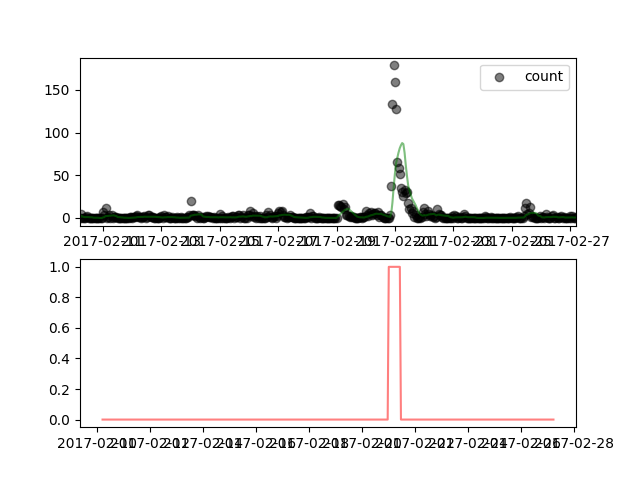
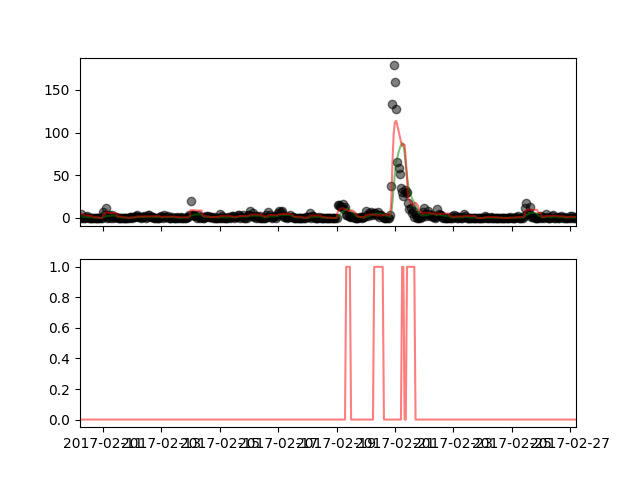
bugfix timeseries

diff --git a/timeseries/__main__.py b/timeseries/__main__.py
@@ -16,6 +16,7 @@ __url__ = "https://github.com/urbanriskmap/timeseries-analysis"
 import pandas as pd
 import numpy as np
 import matplotlib.pyplot as plt
+import matplotlib as mpl
 from matplotlib.animation import FuncAnimation
 
 import datetime
@@ -148,7 +149,7 @@ def get_data_chennai(start_date, end_date, interval="'1 hour'"):
     ''', params={"start_date":start_date, "end_date":end_date, "interval":interval}, con=engine, index_col="date", parse_dates=["date"])
     return num_reports_with_zeros
 
-def test_harness(alg, known_flooding, flood_reports, filename="./graphs/temp.png", animate=False):
+def test_harness(alg, known_flooding, flood_reports, filename="./graphs/temp.png", animate=False, show=True):
     """ Plays each flood report in turn to the streaming algorithm, creating an animation
     Args: 
         alg: the streaming algorithm class. Has a input_report() function that takes in a report
@@ -181,26 +182,37 @@ def test_harness(alg, known_flooding, flood_reports, filename="./graphs/temp.png
     fig.suptitle('', fontsize=16)
     ax.set_xlim(t.index.values[0], t.index.values[-1])
     #ax.plot(t.index.values, t['median'], color='b', alpha=0.5, label="median")
+    fig.canvas.draw()
+    xlabels = [item.get_text()[5:] for item in ax1.get_xticklabels()]
+    ax1.set_xticklabels(xlabels)
+
 
     if (animate):
         def update(frame):
-            ax.set_xlabel(t.index.values[frame])
+            date = t.index.values[frame]
+            ts = pd.to_datetime(str(date)) 
+            d = ts.strftime('%Y.%m.%d - %H:00')
+            #ax.set_xlabel(t.index.values[frame])
+            ax.set_xlabel(d)
             ax.plot(t.index.values[0:frame], t[0:frame]['mean'], color='g', alpha=0.5, label="mean")
             #ax.plot(t.index.values[0:frame], t[0:frame]['median'], color='b', alpha=0.5, label="median")
             #ax.plot(t.index.values[0:frame], t[0:frame]['std'], color='r', alpha=0.5, label="std")
-            ax.scatter(flood_reports.index.values[0:frame], flood_reports.iloc[0:frame]['count'], color='k', alpha=0.5)
+            ax.scatter(flood_reports.index.values[0:frame], flood_reports.iloc[0:frame]['count'], color='k', alpha=0.5, s=5)
             ax1.plot(t.index.values[0:frame], t[0:frame]['signal'], color='r', alpha=0.5, label="signal")
+
             return ax
 
         anim = FuncAnimation(fig, update, frames=np.arange(0,flood_reports.shape[0]), interval=1)
         ax.legend()
         if (filename and filename[-3:] == "gif"):
-            anim.save(filename, writer='imagemagick', fps=60)
+            print(mpl.rcParams['savefig.dpi'])
+            anim.save(filename, writer='imagemagick', fps=60, bitrate=4118620, dpi=200)
         #anim.save('./graphs/bin_by_hour_jbd_feb_cusum_mu1-44.gif', writer='imagemagick', fps=60)
         #anim.save('./graphs/bin_by_min_jbd_feb_cusum_mu1-44.gif', writer='imagemagick', fps=60)
     else: 
         ax.scatter(flood_reports.index.values, flood_reports['count'], color='k', alpha=0.5)
         ax.plot(t.index.values, t['mean'], color='g', alpha=0.5, label="mean")
+        ax.plot(t.index.values, t['std'], color='r', alpha=0.5, label="mean")
         ax1.plot(t.index.values, t['signal'], color='r', alpha=0.5, label="signal")
         if (filename):
             plt.savefig(filename)
@@ -208,7 +220,8 @@ def test_harness(alg, known_flooding, flood_reports, filename="./graphs/temp.png
 
 
     ax.legend()
-    plt.show()
+    if ( show):
+        plt.show()
     return
 
 def test_harness_cusum(alg, known_flooding, flood_reports, filename="./graphs/temp.png", animate=False):
@@ -421,6 +434,9 @@ def cusum_bin_by_hour():
     test_harness_cusum(alg, known, reports, filename="./graphs/bin_by_hour_jbd_feb_cusum.png", animate=False)
 
 def moving_average_bin_by_hour():
+    global engine
+    engine = create_engine("postgresql://postgres:postgres@localhost:5432/petabencana")
+
     start_known_flood = "'2017-02-20 00:00:35.630000-05:00'"
     end = "'2017-02-23 00:00:35.630000-05:00'"
     interval = "'1 hour'"
@@ -433,8 +449,8 @@ def moving_average_bin_by_hour():
     reports = get_data( start_all_reports, end_all_reports) 
 
     alg = spf.streaming_peak_finder(10, 40)
-    #test_harness(alg, known, reports, filename="./graphs/moving_avg_bin_by_hour_feb_jbd.png", animate=False)
-    test_harness(alg, known, reports, filename="./graphs/moving_avg_bin_by_hour_feb_jbd.gif", animate=True)
+    test_harness(alg, known, reports, filename="./graphs/moving_avg_bin_by_hour_feb_jbd.png", animate=False, show=False)
+    #test_harness(alg, known, reports, filename="./graphs/moving_avg_bin_by_hour_feb_jbd.gif", animate=True)
     #test_harness(alg, known, reports, filename=None, animate=True)
 
 def moving_average_bin_by_hour_chennai():
@@ -452,8 +468,8 @@ def moving_average_bin_by_hour_chennai():
     #reports = get_data( start_all_reports, end_all_reports, interval) 
     reports = get_data_chennai( start_all_reports, end_all_reports) 
 
-    alg = spf.streaming_peak_finder(5, 5)
-    test_harness(alg, known, reports, filename="None", animate=False)
+    alg = spf.streaming_peak_finder(5,10)
+    #test_harness(alg, known, reports, filename="./graphs/moving_avg_bin_by_hour_nov_chn.png", animate=False, show=False)
     test_harness(alg, known, reports, filename="./graphs/moving_avg_bin_by_hour_nov_chn.gif", animate=True)
     #test_harness(alg, known, reports, filename=None, animate=True)
 
@@ -470,6 +486,9 @@ def moving_average_bin_by_minute():
     test_harness(alg, known, reports, filename="./graphs/moving_avg_bin_by_minute.png")
 
 def moving_average_bin_by_hour_2016():
+    global engine
+    engine = create_engine("postgresql://postgres:postgres@localhost:5432/petabencana")
+
     start_known_flood = "'2016-02-25 00:00:35.630000-05:00'"
     end = "'2016-02-27 00:00:35.630000-05:00'"
     known = get_data( start_known_flood, end)
@@ -482,7 +501,7 @@ def moving_average_bin_by_hour_2016():
     stdDev = stats[2]
     print(stats)
     alg = spf.streaming_peak_finder(10, stdDev*2)
-    test_harness(alg, known, reports, filename="./graphs/moving_avg_bin_by_hour_feb_2016_jbd.png")
+    test_harness(alg, known, reports, filename="./graphs/moving_avg_bin_by_hour_feb_2016_jbd.png", show=False)
 
 if __name__ == "__main__":
     #cusum_bin_by_min()

diff --git a/timeseries/streaming_peak_finder.py b/timeseries/streaming_peak_finder.py
@@ -51,8 +51,8 @@ class streaming_peak_finder:
         median = temp.median()
         std = temp.std()
 
-        otherStd = pd.Series(self.big_window).std()
-        signal = mean > self.threshold
-        #signal = mean > otherStd*3
+        otherStd = std*1.5# pd.Series(self.big_window).std()
+        #signal = mean > self.threshold
+        signal = mean > otherStd
 
         return (mean, median, otherStd, signal)
